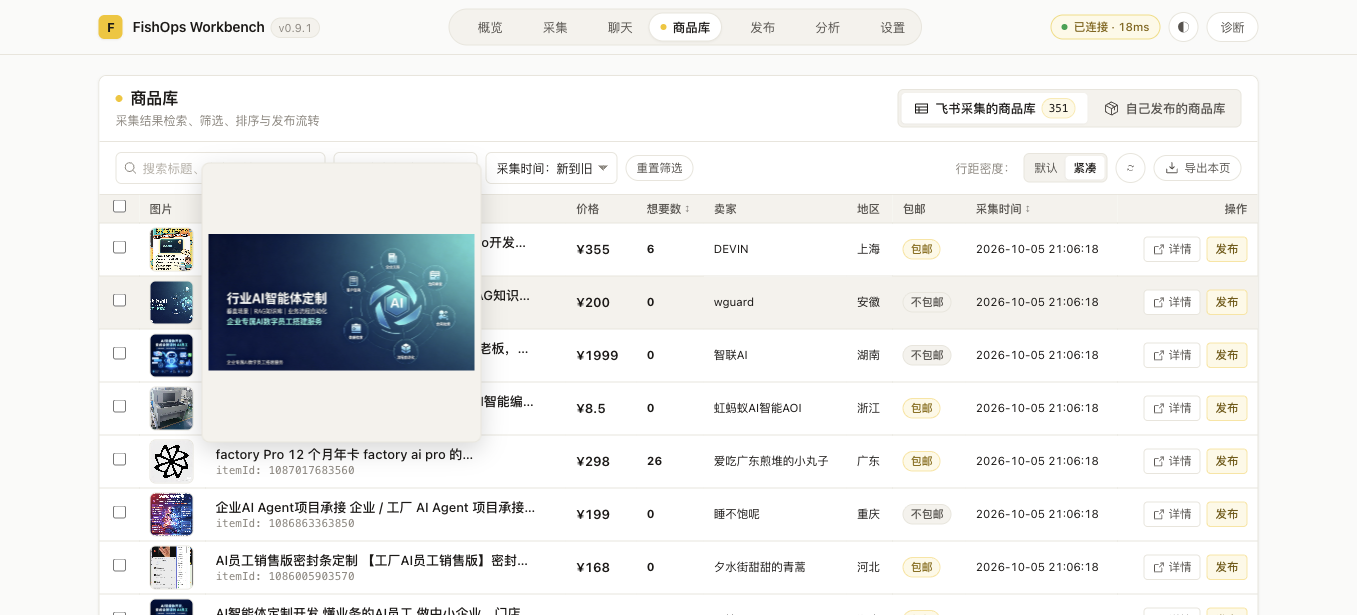
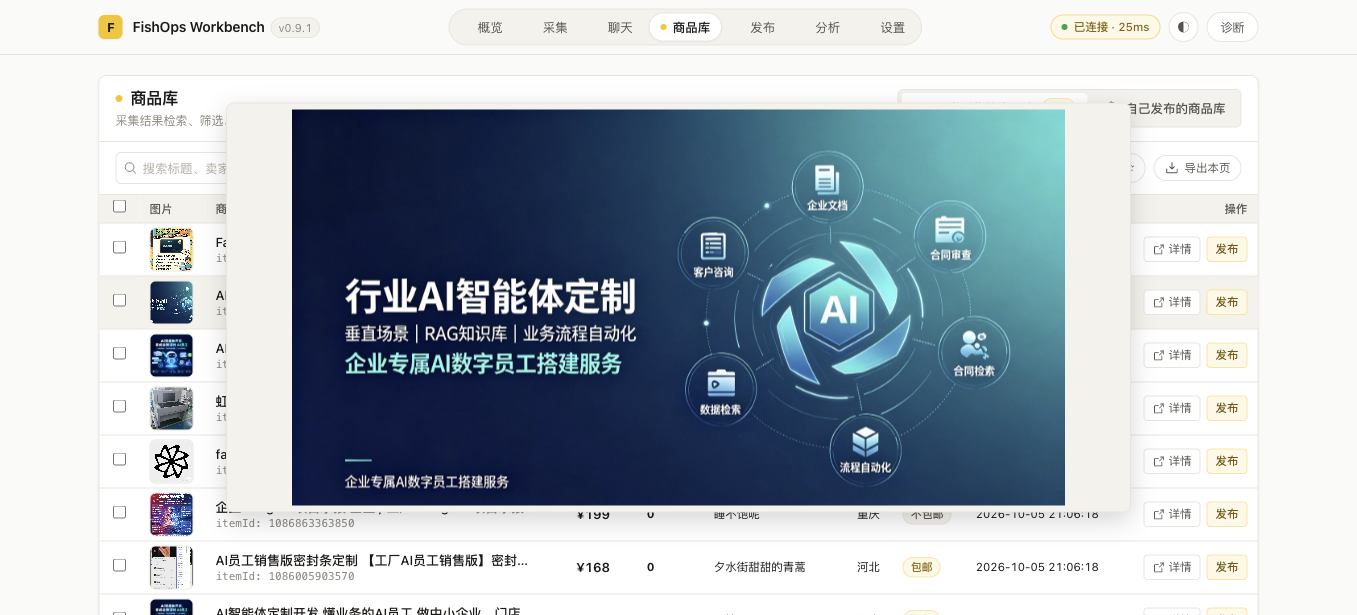
feat(products): 图片预览居中并占视口三分之二 (#11)

diff --git a/workbench/src/features/products/test/image-preview-position.test.ts b/workbench/src/features/products/test/image-preview-position.test.ts
@@ -2,16 +2,16 @@ import assert from 'node:assert/strict'
 import test from 'node:test'
 import { imagePreviewPosition } from '../image-preview-position'
 
-test('预览优先在缩略图右侧，垂直居中', () => {
-  assert.deepEqual(imagePreviewPosition({ left: 100, right: 148, top: 300, height: 48 }, { width: 1000, height: 800 }), { left: 156, top: 184, size: 280 })
+test('预览在视口中央，占宽高的三分之二', () => {
+  assert.deepEqual(imagePreviewPosition({ width: 1200, height: 900 }), { left: 200, top: 150, width: 800, height: 600 })
 })
 
-test('右边缘向左打开，上下边缘保持在视口内', () => {
-  assert.deepEqual(imagePreviewPosition({ left: 900, right: 948, top: 0, height: 48 }, { width: 1000, height: 800 }), { left: 612, top: 8, size: 280 })
-  assert.equal(imagePreviewPosition({ left: 100, right: 148, top: 760, height: 48 }, { width: 1000, height: 800 }).top, 512)
-})
-
-test('窄屏及紧凑行距预览不超出视口', () => {
-  const position = imagePreviewPosition({ left: 20, right: 64, top: 160, height: 44 }, { width: 200, height: 180 })
-  assert.deepEqual(position, { left: 8, top: 8, size: 164 })
+test('窄屏与横屏均按视口比例居中，不超出屏幕', () => {
+  for (const viewport of [{ width: 180, height: 300 }, { width: 900, height: 180 }]) {
+    const position = imagePreviewPosition(viewport)
+    assert.equal(position.width, viewport.width * 2 / 3)
+    assert.equal(position.height, viewport.height * 2 / 3)
+    assert.equal(position.left, (viewport.width - position.width) / 2)
+    assert.equal(position.top, (viewport.height - position.height) / 2)
+  }
 })

diff --git a/workbench/src/features/products/image-preview-position.ts b/workbench/src/features/products/image-preview-position.ts
@@ -1,16 +1,13 @@
-/** 计算悬浮图片预览的位置与尺寸，优先放在缩略图右侧，并限制在视口内。 */
+/** 将图片预览居中，占视口宽高的三分之二；图片比例由组件的 contain 保持。 */
 export function imagePreviewPosition(
-  anchor: { left: number; right: number; top: number; height: number },
   viewport: { width: number; height: number },
-): { left: number; top: number; size: number } {
-  const margin = 8
-  const size = Math.max(0, Math.min(280, viewport.width - margin * 2, viewport.height - margin * 2))
-  const preferredLeft = anchor.right + margin + size <= viewport.width - margin
-    ? anchor.right + margin
-    : anchor.left - margin - size
+): { left: number; top: number; width: number; height: number } {
+  const width = viewport.width * 2 / 3
+  const height = viewport.height * 2 / 3
   return {
-    left: Math.max(margin, Math.min(preferredLeft, viewport.width - margin - size)),
-    top: Math.max(margin, Math.min(anchor.top + anchor.height / 2 - size / 2, viewport.height - margin - size)),
-    size,
+    left: (viewport.width - width) / 2,
+    top: (viewport.height - height) / 2,
+    width,
+    height,
   }
 }

diff --git a/workbench/src/components/ProductImagePreview.vue b/workbench/src/components/ProductImagePreview.vue
@@ -15,10 +15,9 @@ function close(): void {
   window.removeEventListener('resize', close)
 }
 
-function open(event: MouseEvent): void {
+function open(): void {
   if (!props.src || failed.value) return
-  const anchor = (event.currentTarget as HTMLElement).getBoundingClientRect()
-  position.value = imagePreviewPosition(anchor, { width: window.innerWidth, height: window.innerHeight })
+  position.value = imagePreviewPosition({ width: window.innerWidth, height: window.innerHeight })
   // 滚动或调整窗口后关闭，避免预览残留在已离开视口的旧商品位置。
   window.addEventListener('scroll', close, true)
   window.addEventListener('resize', close)
@@ -47,7 +46,7 @@ onBeforeUnmount(close)
       class="product-image-preview"
       :style="{
         left: `${position.left}px`, top: `${position.top}px`,
-        width: `${position.size}px`, height: `${position.size}px`,
+        width: `${position.width}px`, height: `${position.height}px`,
         visibility: loaded ? 'visible' : 'hidden',
       }"
       role="img"

diff --git a/docs/issue-11-product-image-preview.md b/docs/issue-11-product-image-preview.md
@@ -3,14 +3,14 @@
 ## 范围与实现
 
 - 商品库两类来源共用 `ProductImagePreview`。悬浮显示，移出关闭；`Teleport` 到 `body`，固定定位，不改变表格行高，不受滚动容器裁切。
-- 预览最大 280px，按视口缩小并限制位置；图片使用 `object-fit: contain` 保持比例。加载完成前隐藏，失败后关闭。滚动、窗口调整、图片变化和组件卸载清理预览及监听。
+- 预览居中，占视口宽、高的三分之二；图片使用 `object-fit: contain` 保持比例。加载完成前隐藏，失败后关闭。滚动、窗口调整、图片变化和组件卸载清理预览及监听。
 - 想要数只显示有限数字，真实 0 显示 0，缺失显示「—」。发现 `mapCatalogProductToTableItem` 原先用 `p.wantCnt ?? 0` 混淆缺失与零，已建立失败回归后移除该补值。仅调整工作台展示模型，不修改共享协议、后台排序或数据存储。
 
 ## 自动检查
 
 - 缺失值回归修复前失败：`AssertionError [ERR_ASSERTION]: 0 !== undefined`；修复后通过，覆盖飞书与当前账号两类来源的缺失、0、26。
-- 新增预览定位测试：右侧优先、右边缘左侧打开、上下边缘限制、窄屏及紧凑缩略图。
-- `npm run test --workspace @fishops/workbench`：388/388，通过，退出码 0。
+- 新增预览定位测试：视口居中、宽高三分之二、窄屏及横屏。
+- `npm run test --workspace @fishops/workbench`：387/387，通过，退出码 0。
 - `npm run typecheck --workspace @fishops/workbench`：通过，退出码 0。
 - `npm run build:workbench`：通过，退出码 0；产物输出 `extension/dist`。
 - `git diff --check`：通过。
@@ -51,3 +51,9 @@
 ![真实环境紧凑行距悬浮预览](images/issue-11-real-compact.png)
 
 PR 等待人工 Review，不自动合并。
+
+## 居中大图调整复验
+
+按用户要求将预览改为屏幕中央，宽、高分别为视口的 2/3；实际图片仍保持比例，不拉伸、不裁切。新定位回归在旧实现上失败，修改后通过。工作台 387/387 测试、typecheck 通过；重新执行 agent:setup 完整构建、部署并重载成功（退出码 0，SETUP_COMPLETED）。部署包含本次未提交的代码改动。
+
+真实扩展重新打开后，视口 1357×615，预览位置约 (226.16, 102.5)、尺寸约 904.66×410，符合居中及 2/3 比例；真实图片 768×1376 使用 contain，行高前后均为 64.5px。移出关闭、连续切换与页面切出清理通过，无 mock、无数据注入或外部写入。以上两张真实截图已更新为居中大图效果。
